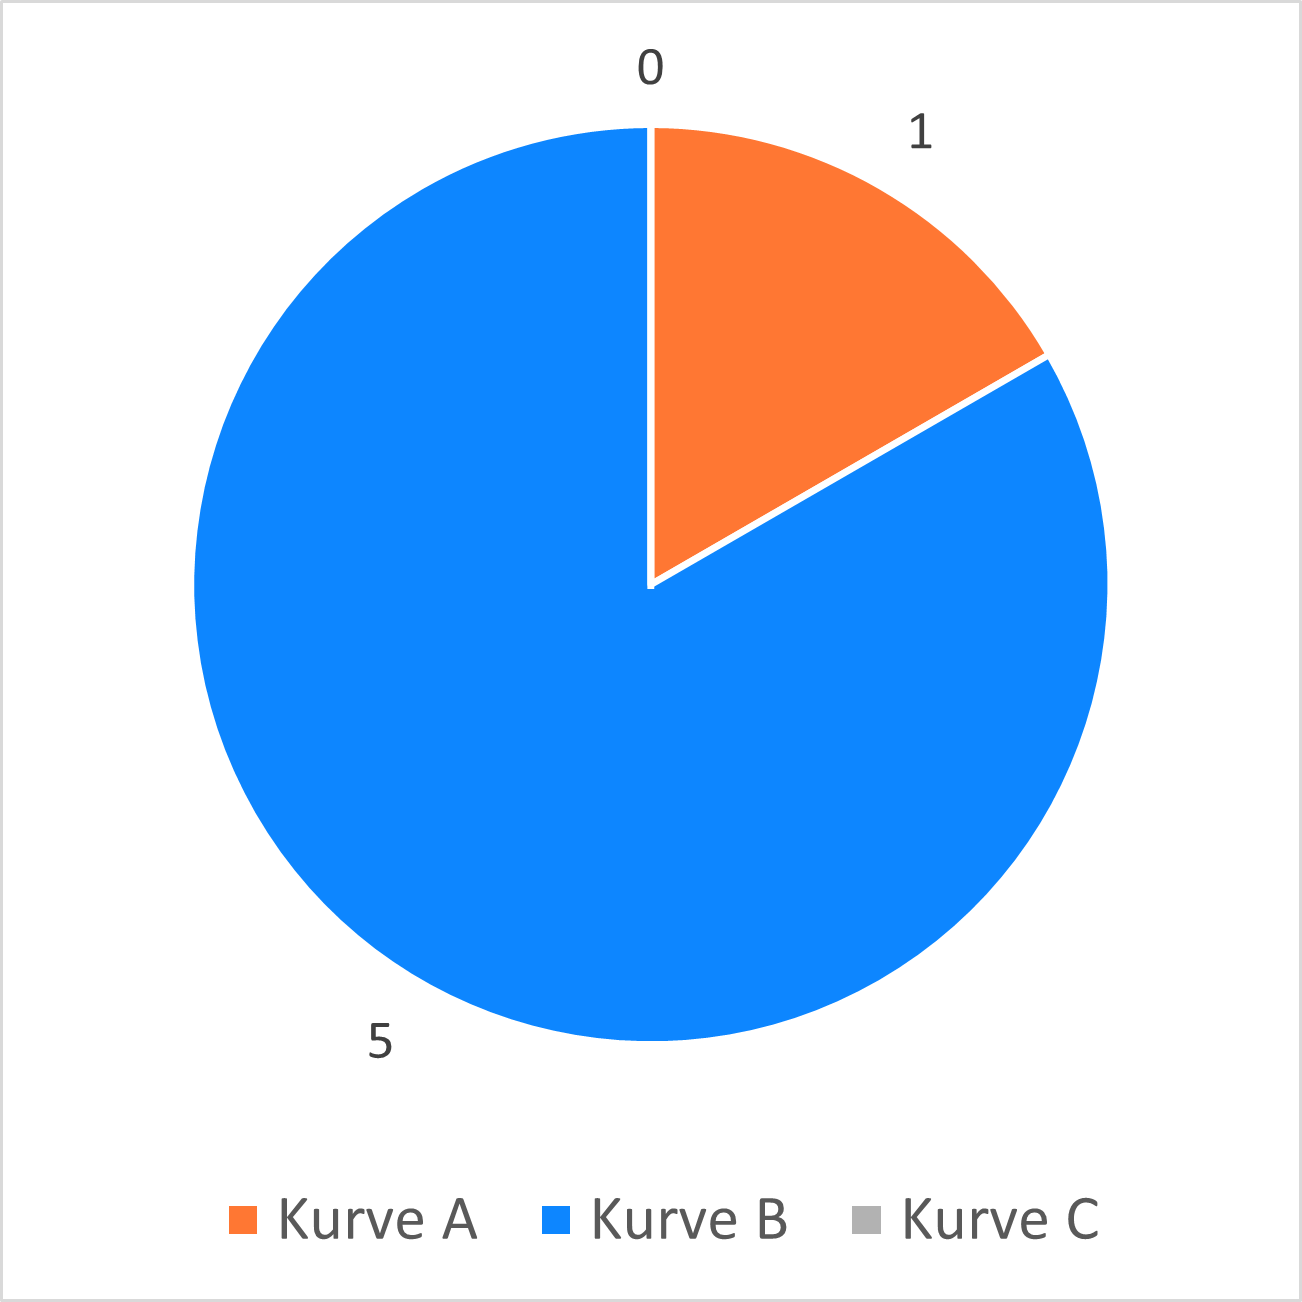
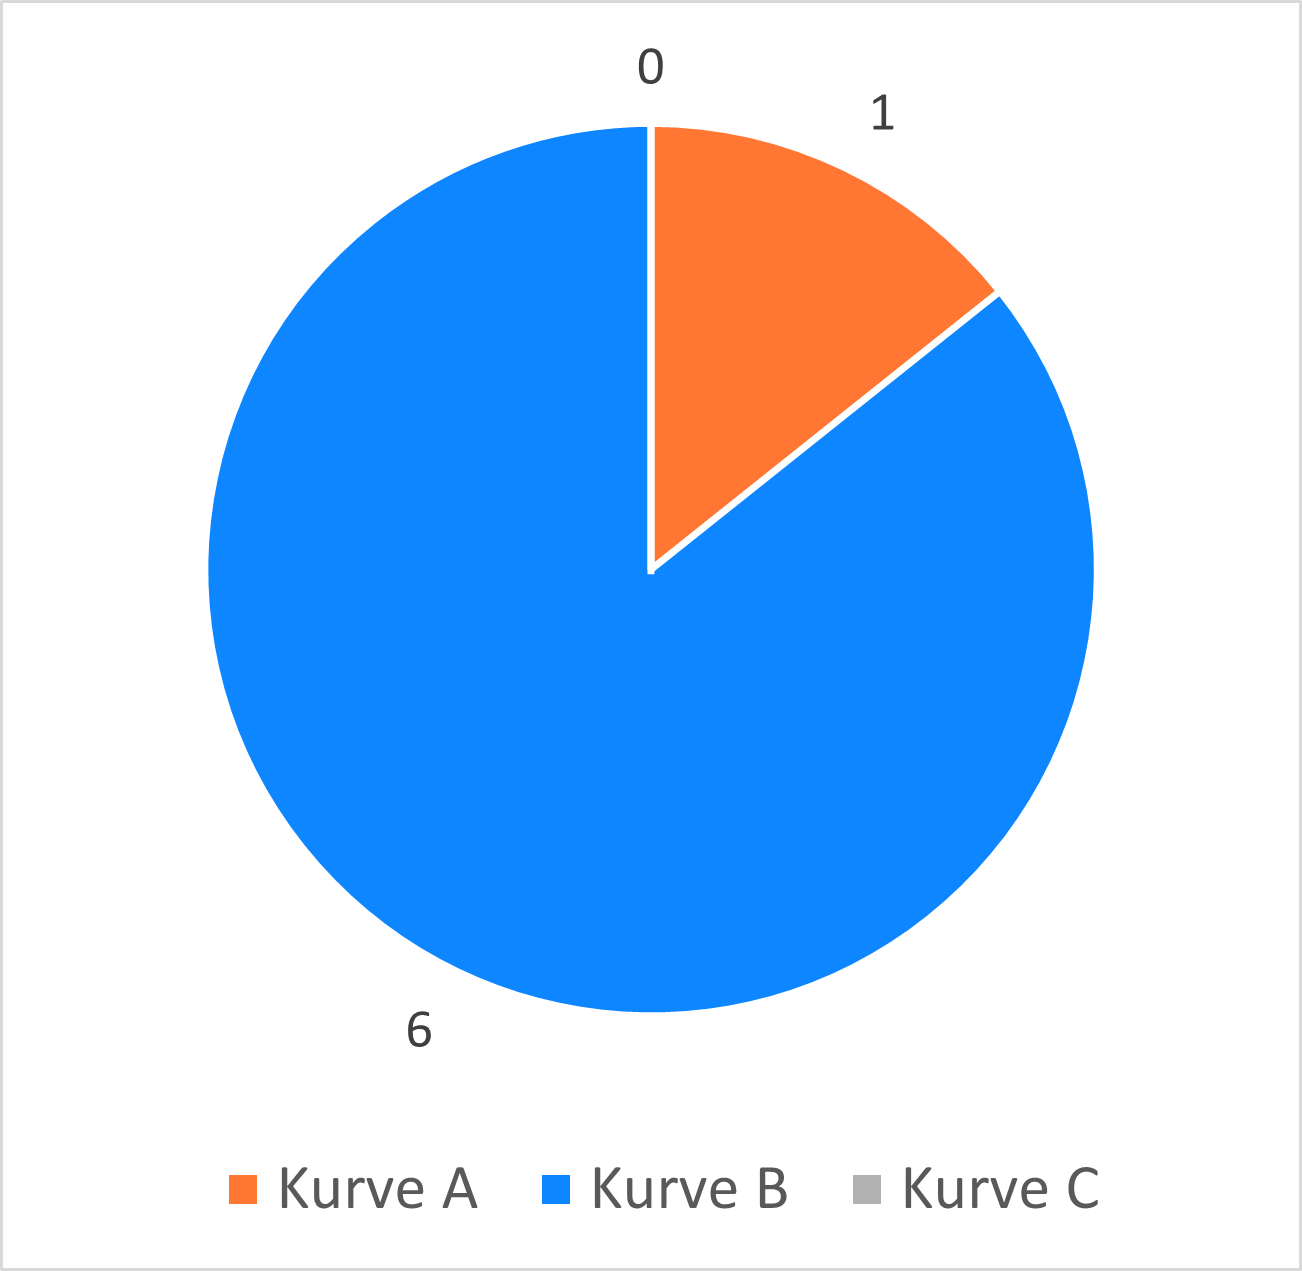
Ergebnisse angepasst

diff --git a/chapters/ergebnisse.tex b/chapters/ergebnisse.tex
@@ -75,7 +75,7 @@ In Abbildung \ref{fig:ergebnisse:analyse:abb7} ist zu erkennen, dass der bilater
 
 \subsection{Prognostizierte Arbeitsleistung der Projektmanager}
 \label{ch:ergebnisse:fallstudie:arbeitsleistung}
-An der Umfrage unter den Projektmanagern haben N=6 Personen teilgenommen. Fünf der Teilnehmer sind im Bereich \JES tätig. Eine Person stammt aus einer anderen Abteilung, welche jedoch ähnliche Technologien bei der Projekttätigkeit einsetzt. Abbildung \ref{fig:ergebnisse:fallstudie:arbeitsleistung:abb1} zeigt, von den Vorschlägen welches Empfehlungsansatzes die Projektmanager eine höhere Arbeitsleistung erwarten.
+An der Umfrage unter den Projektmanagern haben N=7 Personen teilgenommen. Sechs der Teilnehmer sind im Bereich \JES tätig. Eine Person stammt aus einer anderen Abteilung, welche jedoch ähnliche Technologien bei der Projekttätigkeit einsetzt. Abbildung \ref{fig:ergebnisse:fallstudie:arbeitsleistung:abb1} zeigt, von den Vorschlägen welches Empfehlungsansatzes die Projektmanager eine höhere Arbeitsleistung erwarten.
 
 \begin{figure}[h]
 	\centering
@@ -84,7 +84,7 @@ An der Umfrage unter den Projektmanagern haben N=6 Personen teilgenommen. Fünf 
 	\label{fig:ergebnisse:fallstudie:arbeitsleistung:abb1}
 \end{figure}
 
-An den Ergebnissen aus Abbildung \ref{fig:ergebnisse:fallstudie:arbeitsleistung:abb1} ist zu erkennen, dass die Projektmanager bei vier der fünf Projektpositionen von den vorgeschlagenen Mitarbeitern des bilateralen Empfehlungsansatzes eine höhere Arbeitsleistung erwarten. Für Projektposition A prognostiziert sogar kein einziger Projektmanager eine höhere Leistung von den unilateralen Empfehlungen. Auffällig ist außerdem, dass die Hälfte der Teilnehmer von den Vorschlägen des bilateralen Empfehlungssystems für Projektposition D eine viel höhere Arbeitsleistung erwartet. Einzig bei den Vorschläge für Projektposition C sind keine Unterschiede zwischen der erwarteten Arbeitsleistung des uni- und des bilateralen Empfehlungssystems erkennbar.
+An den Ergebnissen aus Abbildung \ref{fig:ergebnisse:fallstudie:arbeitsleistung:abb1} ist zu erkennen, dass die Projektmanager bei drei der fünf Projektpositionen von den vorgeschlagenen Mitarbeitern des bilateralen Empfehlungsansatzes eine höhere Arbeitsleistung erwarten. Für Projektposition A prognostiziert sogar kein einziger Projektmanager eine höhere Leistung von den unilateralen Empfehlungen. Auffällig ist außerdem, dass die Hälfte der Teilnehmer von den Vorschlägen des bilateralen Empfehlungssystems für Projektposition D eine viel höhere Arbeitsleistung erwartet. Bei den Vorschlägen für die Projektpositionen C und E bewerten die Projektmanager jedoch die Arbeitsleistungen des unilateralen Empfehlungsansatzes gegenüber der bilateralen Variante als höher.
 
 \subsection{Einschätzungen hinsichtlich möglicher Unterforderung}
 \label{ch:ergebnisse:fallstudie:kurven}

diff --git a/chapters/diskussion.tex b/chapters/diskussion.tex
@@ -14,7 +14,7 @@ Abschließend wurde evaluiert, wie Mitarbeiter und Projektmanager mit möglicher
 
 \section{Interpretation der Forschungsergebnisse}
 \label{ch:diskussion:interpretation}
-Bei Betrachtung der Ergebnisse ist zunächst festzustellen, dass sowohl der lange (Ratten-)Schwanz als auch der Kaltstart relevante Probleme bei der Empfehlungsgenerierung darstellten. \\
+Bei Betrachtung der Ergebnisse ist zunächst festzustellen, dass sowohl der lange (Ratten-)Schwanz als auch der Kaltstart relevante Probleme bei der Empfehlungsgenerierung darstellten. Die Anwendung des Katz-Algori\\
 
 \newpage
 - Sparsity Problem und Kaltstart --> Anwendung Katz und Teamzuordnung war notwendig\\
@@ -25,7 +25,7 @@ Bei Betrachtung der Ergebnisse ist zunächst festzustellen, dass sowohl der lang
 
 \section{Beschränkungen der Forschung}
 \label{ch:diskussion:beschraenkungen}
-- Sehr homogene Gruppe --> Alles Java-Entwickler --> Müsste überprüft werden, ob diese Ergebnisse auch für heterogene Gruppe zutreffen
+- Sehr homogene Gruppe --> Alles Java-Entwickler (auch hier heterogen) --> Müsste überprüft werden, ob diese Ergebnisse auch für heterogene Gruppe zutreffen
 
 \section{Empfehlung für weiterführende Forschung}
 \label{ch:diskussion:empfehlungen}
